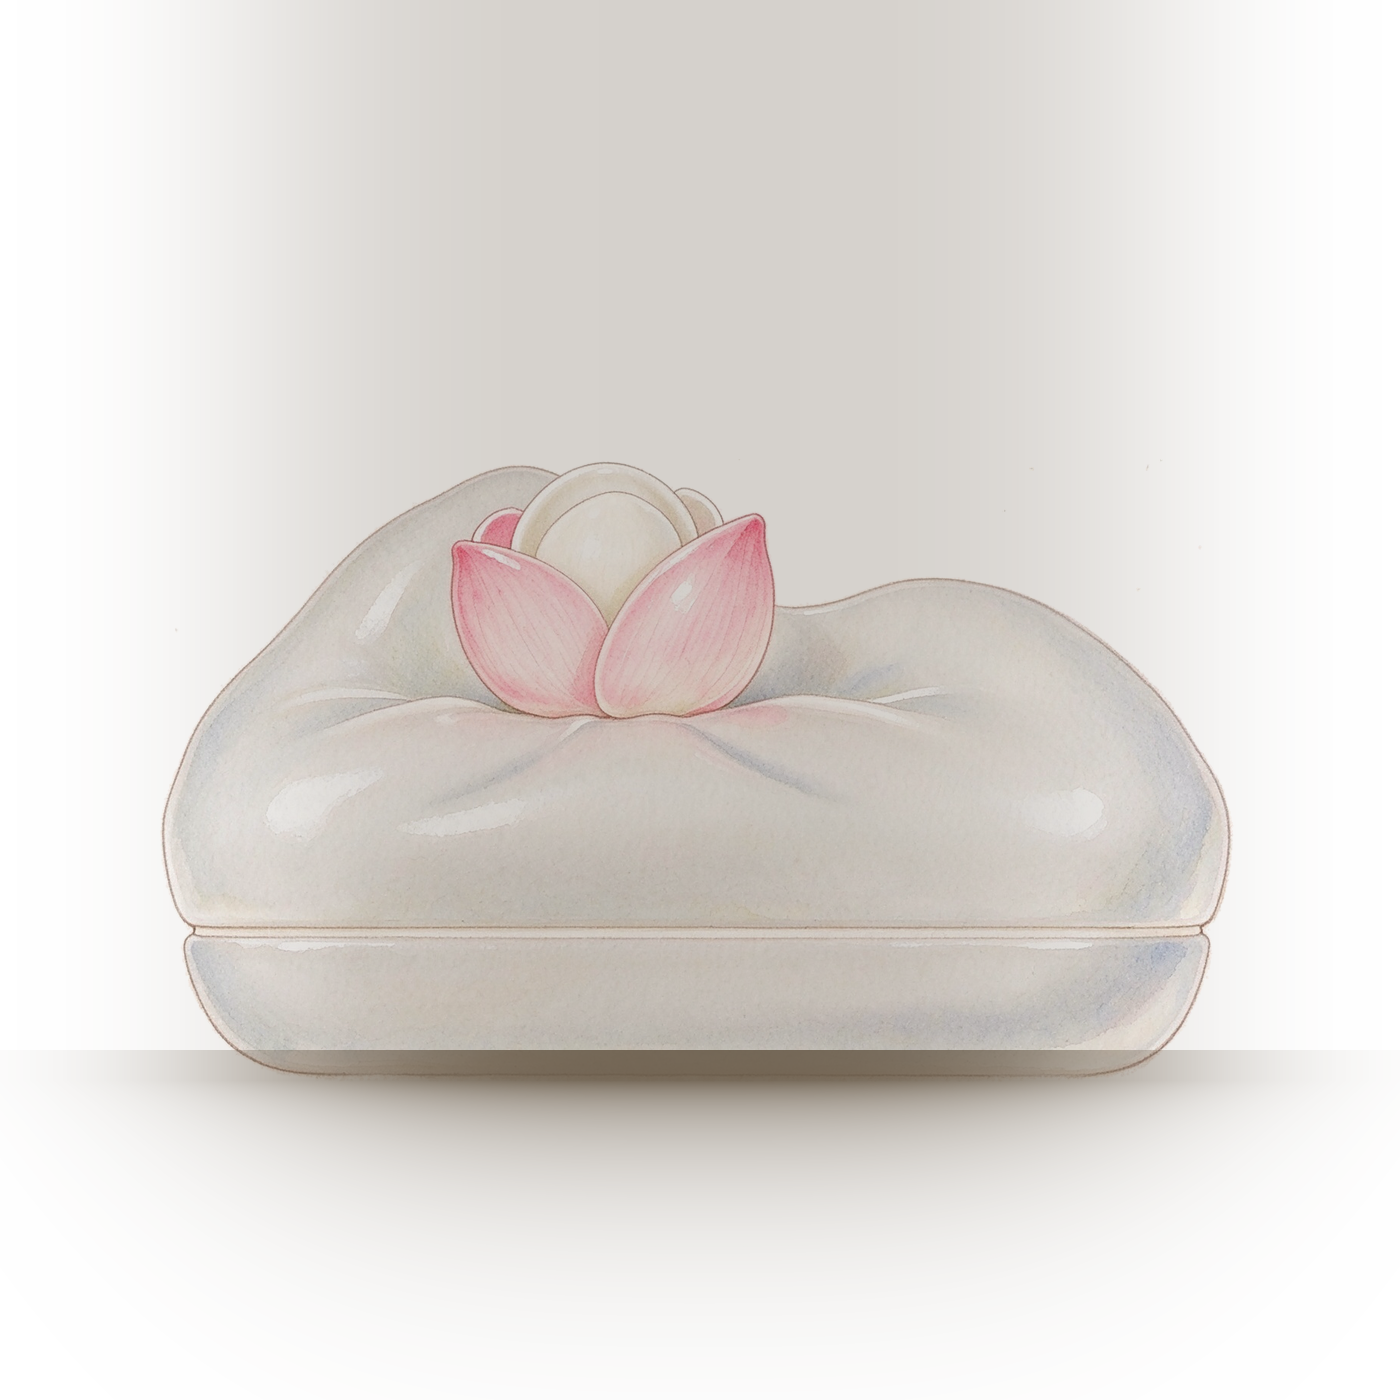
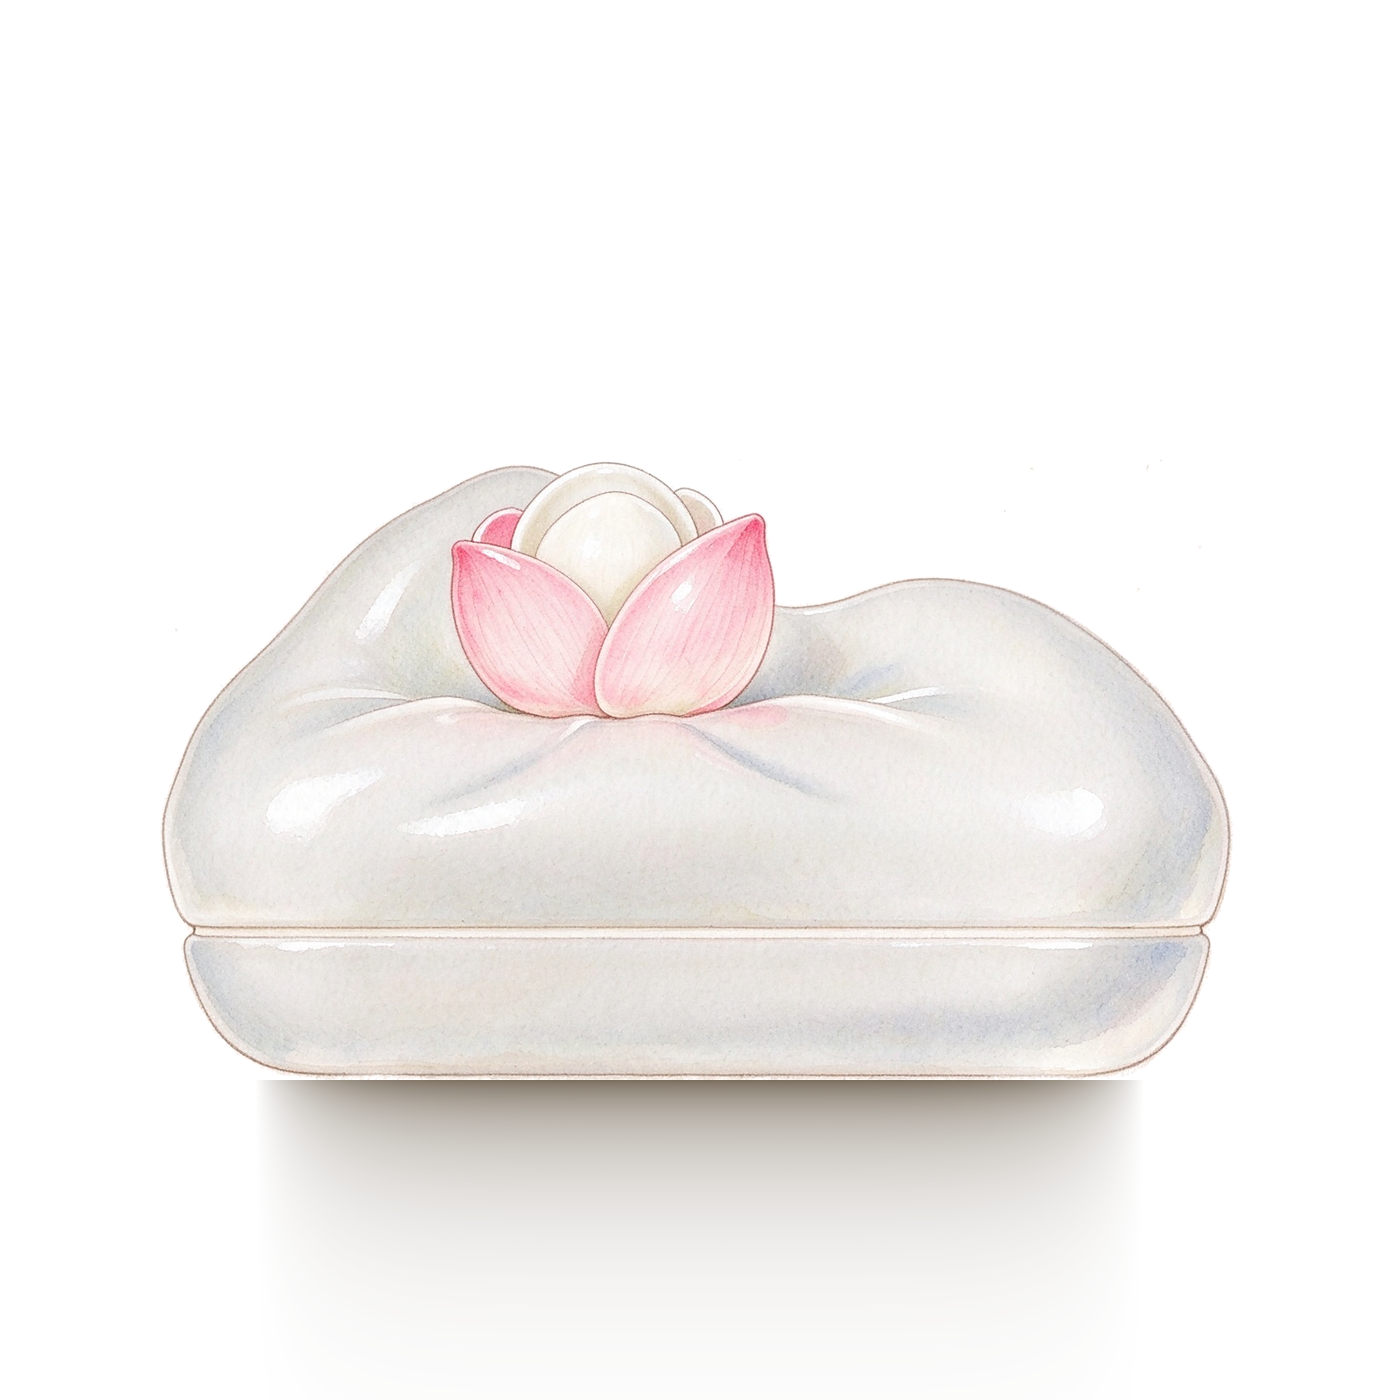
修正阴影污染炉体的问题 + 素材加缓存版本号
- 关键 bug：阴影垂直方向没截断，炉底以上也被投影，整台仪器被压暗、花瓣发灰
- 现在 dy<0 区域阴影恒为 0；贴地窄条同样截断
- 横向限制在炉底宽度 0.58 倍内，不再出现贯穿画面的深色横带
- 素材 URL 加 ?v=20261125h，避免浏览器读到旧缓存

diff --git a/index.html b/index.html
@@ -118,11 +118,11 @@
           <div class="glow-layer glow-petals" aria-hidden="true"></div>
           <div class="glow-layer glow-flash" id="censerFlash" aria-hidden="true"></div>
           <div class="censer-ground-shadow" aria-hidden="true"></div>
-          <img class="censer-art censer-art-day" src="assets/censer/product-day.webp"
+          <img class="censer-art censer-art-day" src="assets/censer/product-day.webp?v=20261125h"
                width="1254" height="1254" alt="" aria-hidden="true" draggable="false" />
-          <img class="censer-art censer-art-night" src="assets/censer/product.webp"
+          <img class="censer-art censer-art-night" src="assets/censer/product.webp?v=20261125h"
                width="1254" height="1254" alt="" aria-hidden="true" draggable="false" />
-                    <img class="censer-art censer-bloom" src="assets/censer/bloom-open.webp"
+                    <img class="censer-art censer-bloom" src="assets/censer/bloom-open.webp?v=20261125h"
                width="1254" height="1254" alt="" aria-hidden="true" draggable="false" />
 <span class="censer-smoke-origin" id="censerSmokeOrigin" aria-hidden="true"></span>
 

diff --git a/js/vintage.js b/js/vintage.js
@@ -93,7 +93,7 @@
   function syncTheme() {
     var night = html.getAttribute('data-theme') === 'night';
     var bloomArt = doc.querySelector('.censer-bloom');
-    if (bloomArt) bloomArt.src = night ? 'assets/censer/bloom-open.webp' : 'assets/censer/bloom-open-day.webp';
+    if (bloomArt) bloomArt.src = night ? 'assets/censer/bloom-open.webp?v=20261125h' : 'assets/censer/bloom-open-day.webp?v=20261125h';
     // 日夜共用同一张干净香炉；开花层用烘焙好的「花瓣张开」图，交叉淡入
 
     if (themeIcon) {
